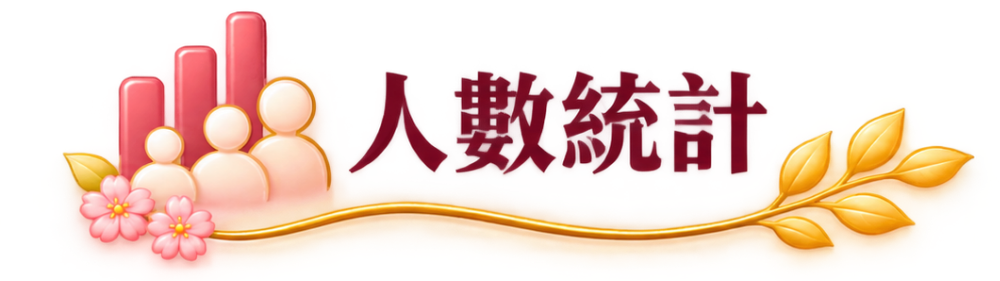
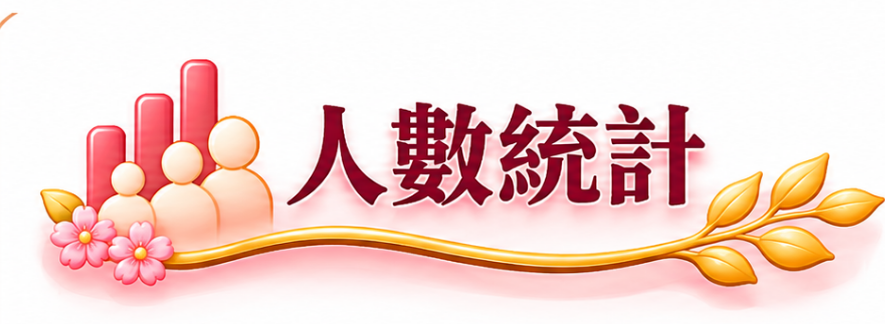
Add files via upload

diff --git a/admin.html b/admin.html
@@ -119,7 +119,7 @@
           <section class="admin-card dashboard-panel dashboard-trip-list-card">
             <div class="dashboard-panel-heading">
               <h3 class="dashboard-trip-title-art" aria-label="行程">
-                <img class="dashboard-trip-title-premium" src="trip-title-premium.png?v=20261127-title-series-v100" alt="行程" draggable="false">
+                <img class="dashboard-trip-title-premium" src="trip-title-premium.png?v=20261128-title-replace-v112" alt="行程" draggable="false">
               </h3>
             </div>
             <div class="dashboard-trip-list-wrap">
@@ -131,7 +131,7 @@
 
           <section class="admin-card dashboard-panel dashboard-trip-stats-card" aria-live="polite">
             <div class="dashboard-panel-heading">
-              <h3 class="dashboard-stats-title"><img src="stats-title.png?v=20261127-title-series-v100" alt="人數統計" draggable="false" style="display:block!important;width:270px!important;height:78px!important;max-width:270px!important;max-height:78px!important;object-fit:contain!important;flex:0 0 270px!important;"><small id="dashboardStatsTripName">請選擇左側行程</small></h3>
+              <h3 class="dashboard-stats-title"><img src="stats-title.png?v=20261128-title-replace-v112" alt="人數統計" draggable="false" style="display:block!important;width:270px!important;height:78px!important;max-width:270px!important;max-height:78px!important;object-fit:contain!important;flex:0 0 270px!important;"><small id="dashboardStatsTripName">請選擇左側行程</small></h3>
             </div>
             <div id="dashboardTripStatsContent" class="dashboard-trip-stats-content">
               <div class="dashboard-stats-placeholder">請選擇左側行程</div>
